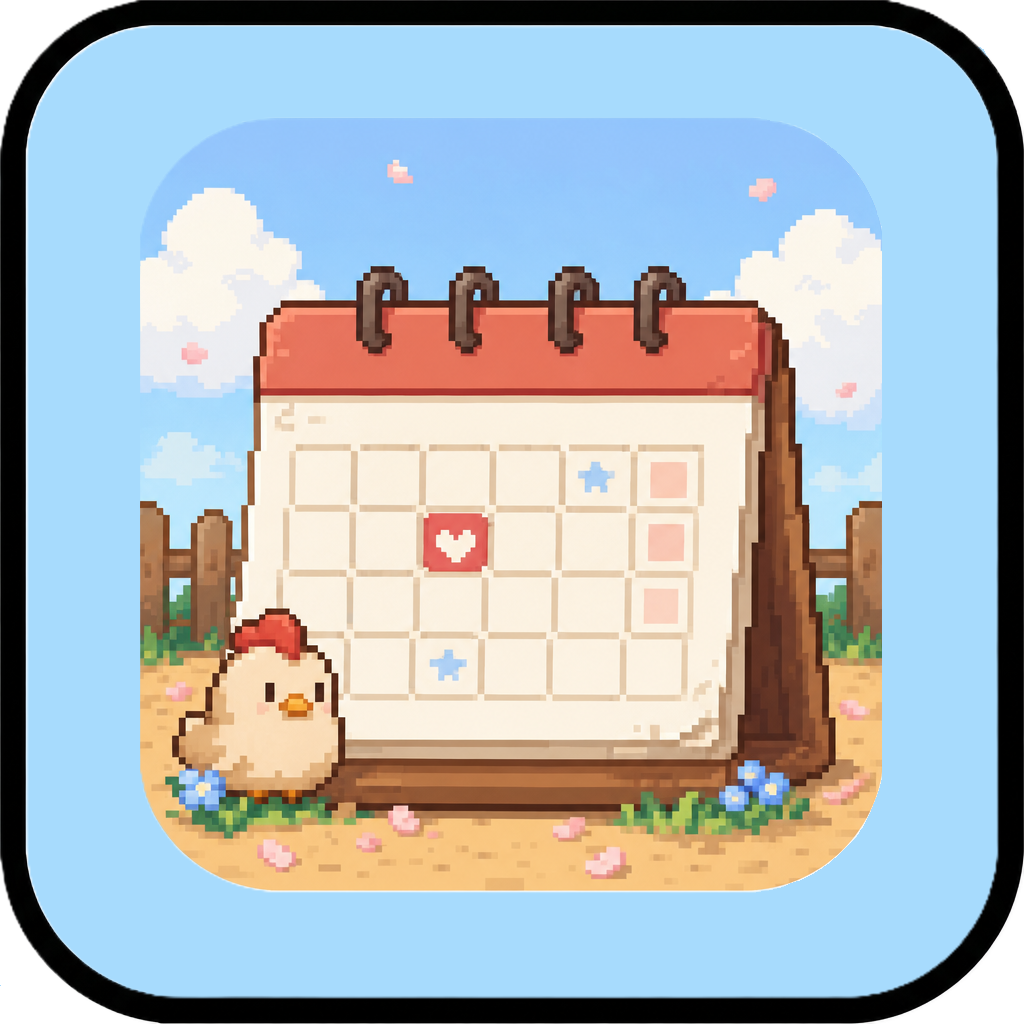
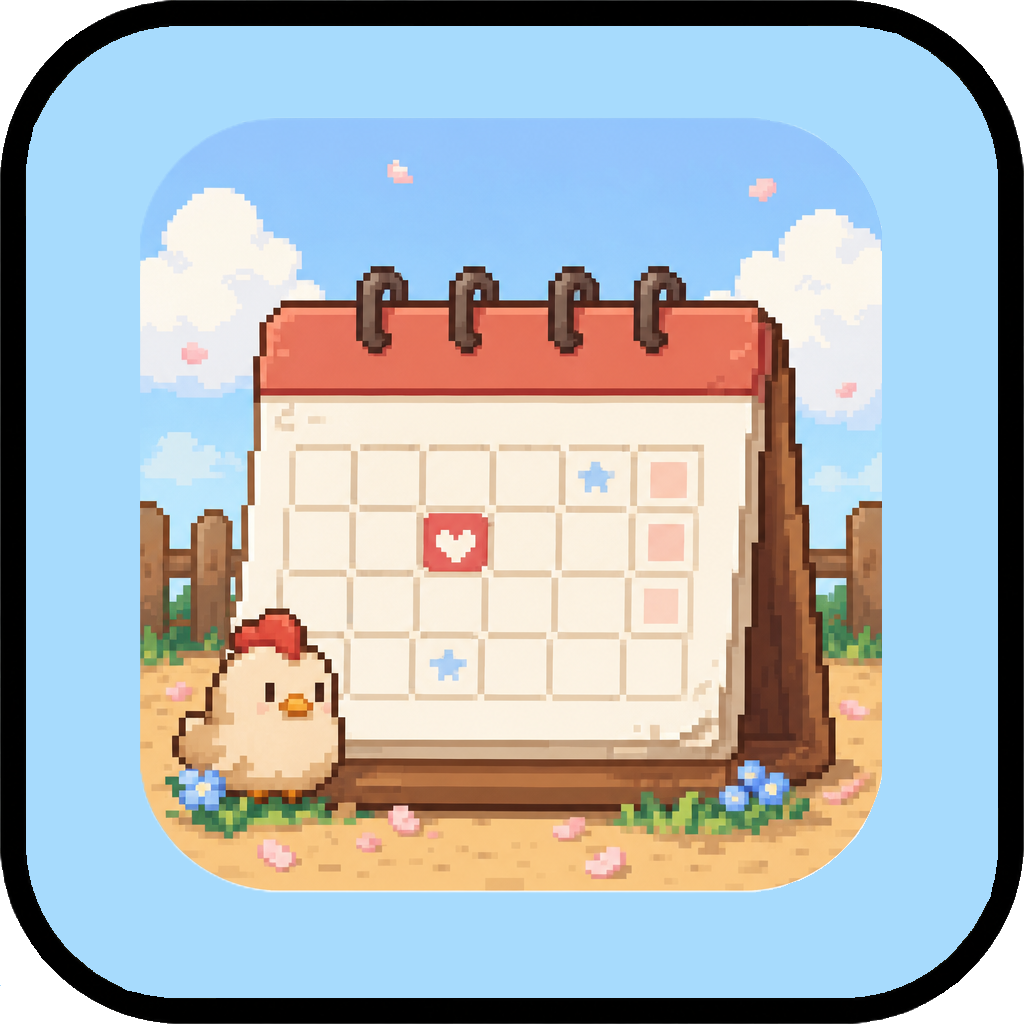
added phone app texture, added background draw

diff --git a/HelperPhoneMenu/PhoneMenu.cs b/HelperPhoneMenu/PhoneMenu.cs
@@ -114,6 +114,7 @@ namespace Smartphone
 
         private List<string> capturedImages;
         private Texture2D phoneBackgroundImage = null;
+        private Texture2D phoneBackgroundImageBlurred = null;
 
         private bool forcedFreeControllerCursor = false;
         private readonly float phoneUiScale;
@@ -195,14 +196,23 @@ namespace Smartphone
             b.Draw(texturePhoneCapture, GetPhoneFrameBounds(), Color.White);
         }
 
-        private void DrawPhoneScreenBackground(SpriteBatch b, int xOffset, bool applyBackgroundImage = false)
+        private void DrawPhoneScreenBackground(SpriteBatch b, int xOffset, bool applyBackgroundImage = false, bool useBlurredBackground = false)
         {
             Rectangle contentBounds = GetPhoneContentBounds(xOffset);
             b.Draw(texturePhoneBackground, contentBounds, Color.White);
 
-            if (applyBackgroundImage && phoneBackgroundImage != null)
+            if (applyBackgroundImage)
             {
-                b.Draw(phoneBackgroundImage, contentBounds, Color.White * 0.8f);
+                // If blur is requested, draw our new frosted texture
+                if (useBlurredBackground && phoneBackgroundImageBlurred != null)
+                {
+                    b.Draw(phoneBackgroundImageBlurred, contentBounds, Color.White);
+                }
+                // Otherwise draw the sharp image for the lock screen
+                else if (phoneBackgroundImage != null)
+                {
+                    b.Draw(phoneBackgroundImage, contentBounds, Color.White * 0.8f);
+                }
             }
         }
 
@@ -788,8 +798,13 @@ namespace Smartphone
             return string.Equals(left ?? "", right ?? "", StringComparison.OrdinalIgnoreCase);
         }
 
-        private void ResetPhoneBackgroundToDefault()
+        internal void ResetPhoneBackgroundToDefault()
         {
+            ModEntry.currentPhoneBackground = "";
+            phoneBackgroundImage?.Dispose();
+            phoneBackgroundImage = null;
+            phoneBackgroundImageBlurred?.Dispose();
+            phoneBackgroundImageBlurred = null;
             ModEntry.currentPhoneBackground = "";
             phoneBackgroundImage?.Dispose();
             phoneBackgroundImage = null;
@@ -815,7 +830,10 @@ namespace Smartphone
                 using (Texture2D fullImage = Texture2D.FromStream(Game1.graphics.GraphicsDevice, stream))
                 {
                     phoneBackgroundImage?.Dispose();
+                    phoneBackgroundImageBlurred?.Dispose(); // Add this line
+
                     phoneBackgroundImage = CropTexture(fullImage);
+                    phoneBackgroundImageBlurred = CreateBlurredTexture(phoneBackgroundImage); // Add this line
                 }
 
                 ModEntry.currentPhoneBackground = imagePath;
@@ -1006,7 +1024,7 @@ namespace Smartphone
 
         private void DrawHomeLandingScreen(SpriteBatch b, int xOffset, bool drawApps)
         {
-            DrawPhoneScreenBackground(b, xOffset, applyBackgroundImage: true);
+            DrawPhoneScreenBackground(b, xOffset, applyBackgroundImage: true, useBlurredBackground: true);
 
             if (!drawApps)
                 return;
@@ -1643,7 +1661,75 @@ namespace Smartphone
             rootLandingState = RootLandingState.LockScreen;
         }
 
+        private Texture2D CreateBlurredTexture(Texture2D source)
+        {
+            if (source == null) return null;
 
+            // 1. Downsample for speed and extra "softness"
+            int scaleDown = 4;
+            int width = Math.Max(1, source.Width / scaleDown);
+            int height = Math.Max(1, source.Height / scaleDown);
+
+            Color[] srcData = new Color[source.Width * source.Height];
+            source.GetData(srcData);
+            Color[] smallData = new Color[width * height];
+
+            for (int y = 0; y < height; y++)
+            {
+                int srcY = Math.Min(y * scaleDown, source.Height - 1);
+                for (int x = 0; x < width; x++)
+                {
+                    int srcX = Math.Min(x * scaleDown, source.Width - 1);
+                    smallData[y * width + x] = srcData[srcY * source.Width + srcX];
+                }
+            }
+
+            int blurRadius = 2;
+            Color[] temp = new Color[width * height];
+
+            // 2. Horizontal Blur Pass
+            for (int y = 0; y < height; y++)
+            {
+                for (int x = 0; x < width; x++)
+                {
+                    int r = 0, g = 0, b = 0;
+                    int count = 0;
+                    for (int k = -blurRadius; k <= blurRadius; k++)
+                    {
+                        int px = Math.Clamp(x + k, 0, width - 1);
+                        Color c = smallData[y * width + px];
+                        r += c.R; g += c.G; b += c.B;
+                        count++;
+                    }
+                    temp[y * width + x] = new Color(r / count, g / count, b / count, 255);
+                }
+            }
+
+            Color[] destData = new Color[width * height];
+
+            // 3. Vertical Blur Pass & Darkening Overlay
+            for (int x = 0; x < width; x++)
+            {
+                for (int y = 0; y < height; y++)
+                {
+                    int r = 0, g = 0, b = 0;
+                    int count = 0;
+                    for (int k = -blurRadius; k <= blurRadius; k++)
+                    {
+                        int py = Math.Clamp(y + k, 0, height - 1);
+                        Color c = temp[py * width + x];
+                        r += c.R; g += c.G; b += c.B;
+                        count++;
+                    }
+                    // Multiply by 0.5f to darken the image (iPhone style)
+                    destData[y * width + x] = new Color((int)((r / count) * 0.85f), (int)((g / count) * 0.85f), (int)((b / count) * 0.85f), 255);
+                }
+            }
+
+            Texture2D blurred = new Texture2D(Game1.graphics.GraphicsDevice, width, height);
+            blurred.SetData(destData);
+            return blurred;
+        }
 
         public void ClosePhoneMenu()
         {

diff --git a/HelperPhoto/PhoneMenu.Photo.cs b/HelperPhoto/PhoneMenu.Photo.cs
@@ -506,7 +506,7 @@ namespace Smartphone
 
         // Detail view buttons
         private Rectangle photoDetailFavBounds = Rectangle.Empty;
-        private Rectangle photoDetailDeleteBounds = Rectangle.Empty;
+        private Rectangle photoDetailActionBounds = Rectangle.Empty;
         private Rectangle photoDetailPrevBounds = Rectangle.Empty;
         private Rectangle photoDetailNextBounds = Rectangle.Empty;
 
@@ -1059,7 +1059,17 @@ namespace Smartphone
         {
             int itemH = ScaleUiValue(PhotoDropdownItemHBase);
             int dropW = ScaleUiValue(PhotoDropdownWidthBase);
-            var items = new List<string> { "Delete", "Select all", "Favourite", "Add to Album" };
+
+            var items = new List<string>();
+            if (photoDetailIndex >= 0)
+            {
+                items.AddRange(new[] { "Delete", "Add to Album", "Use as background" });
+            }
+            else
+            {
+                items.AddRange(new[] { "Delete", "Select all", "Favourite", "Add to Album" });
+            }
+
             photoDropdownItems.Clear();
             photoDropdownItemBounds.Clear();
             photoDropdownItems.AddRange(items);
@@ -1384,7 +1394,7 @@ namespace Smartphone
 
             // Bottom toolbar
             Rectangle bottomBar = new(content.X, content.Bottom - barH, content.Width, barH);
-            b.Draw(Game1.staminaRect, bottomBar, new Color(0, 0, 0, 180));
+            b.Draw(Game1.staminaRect, bottomBar, new Color(0, 0, 0, 100));
 
             // Prev / Next navigation
             photoDetailPrevBounds = new(content.X + btnPad, bottomBar.Center.Y - navSize / 2, navSize, navSize);
@@ -1409,18 +1419,16 @@ namespace Smartphone
 
             // Top bar
             Rectangle topBar = new(content.X, content.Y, content.Width, ScaleUiValue(PhotoNavBarHeightBase));
-            b.Draw(Game1.staminaRect, topBar, new Color(0, 0, 0, 160));
+            b.Draw(Game1.staminaRect, topBar, new Color(0, 0, 0, 100));
 
             // Back arrow (Removed to use the phone-provided back button)
 
-            // Delete button top-right (Redesigned to draw texting app's trash can icon)
-            photoDetailDeleteBounds = new(content.Right - btnPad - ScaleUiValue(48), topBar.Center.Y - ScaleUiValue(20), ScaleUiValue(32), ScaleUiValue(40));
-            b.Draw(
-                Game1.mouseCursors,
-                photoDetailDeleteBounds,
-                new Rectangle(564, 102, 16, 26),
-                Color.White * 0.9f
-            );
+            // Action button top-right
+            int actionW = ScaleUiValue(80);
+            int actionH = ScaleUiValue(42);
+            photoDetailActionBounds = new Rectangle(content.Right - btnPad - actionW, topBar.Center.Y - actionH / 2, actionW, actionH);
+            DrawPhoneRoundButton(b, photoDetailActionBounds, "Action", Color.Black, Color.White);
+
 
             // Photo name at bottom of top bar
             if (photoDetailIndex >= 0 && photoDetailIndex < capturedImages.Count)
@@ -1429,7 +1437,9 @@ namespace Smartphone
                 float nameScale = GetPhoneTextScale(0.7f);
                 Vector2 nameSz = Game1.smallFont.MeasureString(displayName) * nameScale;
                 int leftLimit = content.X + btnPad;
-                int rightLimit = content.Right - btnPad - ScaleUiValue(48);
+
+                // Update the right limit to account for the wider Action button
+                int rightLimit = content.Right - btnPad - actionW - ScaleUiValue(16);
                 int maxW = rightLimit - leftLimit;
 
                 Vector2 namePos = (nameSz.X <= maxW)
@@ -1539,11 +1549,10 @@ namespace Smartphone
             // ── Detail view ───────────────────────────────────────────
             if (photoDetailIndex >= 0)
             {
-                if (photoDetailDeleteBounds.Contains(x, y))
+                if (photoDetailActionBounds.Contains(x, y))
                 {
-                    photoSelectedIndices.Clear();
-                    photoSelectedIndices.Add(photoDetailIndex);
-                    photoDeleteConfirmOpen = true;
+                    photoActionDropdownOpen = true;
+                    Game1.playSound("smallSelect");
                     photoClickHandledOnPress = true;
                     return;
                 }
@@ -2132,8 +2141,16 @@ namespace Smartphone
             switch (action)
             {
                 case "Delete":
-                    if (photoSelectedIndices.Count > 0)
+                    if (photoDetailIndex >= 0)
+                    {
+                        photoSelectedIndices.Clear();
+                        photoSelectedIndices.Add(photoDetailIndex);
                         photoDeleteConfirmOpen = true;
+                    }
+                    else if (photoSelectedIndices.Count > 0)
+                    {
+                        photoDeleteConfirmOpen = true;
+                    }
                     break;
 
                 case "Select all":
@@ -2165,7 +2182,22 @@ namespace Smartphone
                     break;
 
                 case "Add to Album":
+                    if (photoDetailIndex >= 0)
+                    {
+                        // Auto-select the active photo so it gets added to the album
+                        photoSelectedIndices.Clear();
+                        photoSelectedIndices.Add(photoDetailIndex);
+                    }
                     photoAlbumPickerOpen = true;
+                    break;
+
+                case "Use as background":
+                    if (photoDetailIndex >= 0 && photoDetailIndex < capturedImages.Count)
+                    {
+                        string path = capturedImages[photoDetailIndex];
+                        ApplyPhoneBackground(path); // This correctly hooks into PhoneMenu.cs!
+                        Game1.playSound("coin");
+                    }
                     break;
             }
         }

diff --git a/HelperPhoneMenu/PhoneAppLayoutManager.cs b/HelperPhoneMenu/PhoneAppLayoutManager.cs
@@ -324,7 +324,7 @@ namespace Smartphone
 
             List<HomeAppEntryProxy> allApps = BuildAllAppsSnapshot();
             SyncLayoutWithApps(allApps);
-            DrawDockDivider(b);
+
             DrawDock(b, allApps);
 
             if (IsReorderMode && _openFolder == null)
@@ -383,6 +383,7 @@ namespace Smartphone
                 Game1.playSound("trashcan");
                 BuildDefaultLayout(BuildAllAppsSnapshot());
                 SaveLayout();
+                _menu.ResetPhoneBackgroundToDefault();
                 return true;
             }
 
@@ -1201,12 +1202,6 @@ namespace Smartphone
             int bh = Math.Max(ScaleUi(18), (int)textSize.Y + ScaleUi(4));
             IClickableMenu.drawTextureBox(b, Game1.menuTexture, new Rectangle(0, 256, 60, 60),
                 iconRect.Right - bw / 2 - ScaleUi(4), iconRect.Top - bh / 2 + ScaleUi(4), bw, bh, new Color(255, 0, 0, 220), 1f, false);
-        }
-
-        private void DrawDockDivider(SpriteBatch b)
-        {
-            Rectangle contentBounds = _menu.GetPhoneContentBounds();
-            b.Draw(Game1.staminaRect, new Rectangle(contentBounds.X, contentBounds.Y + ScaleUi(690), contentBounds.Width, ScaleUi(1)), Color.White * 0.25f);
         }
 
         private void DrawPageIndicator(SpriteBatch b)

diff --git a/HelperAppSetting/PhoneMenu.Setting.cs b/HelperAppSetting/PhoneMenu.Setting.cs
@@ -136,7 +136,7 @@ namespace Smartphone
                 title,
                 new Vector2(PhoneX(SettingsTitleXOffsetBase), PhoneY(SettingsTitleYOffsetBase)),
                 Color.Black,
-                localScale: 0.55f * PhoneUiScale);
+                localScale: 1f * PhoneUiScale);
 
             if (currentSettingMenuState == SettingMenuSoundState)
             {
@@ -211,7 +211,7 @@ namespace Smartphone
                     rowBounds.X + ScaleUiValue(SettingsOptionTextXPaddingBase),
                     rowBounds.Y + ScaleUiValue(SettingsOptionTextYOffsetBase)),
                 Color.Black,
-                localScale: 0.5f * PhoneUiScale);
+                localScale: 0.85f * PhoneUiScale);
 
             b.Draw(
                 Game1.mouseCursors,